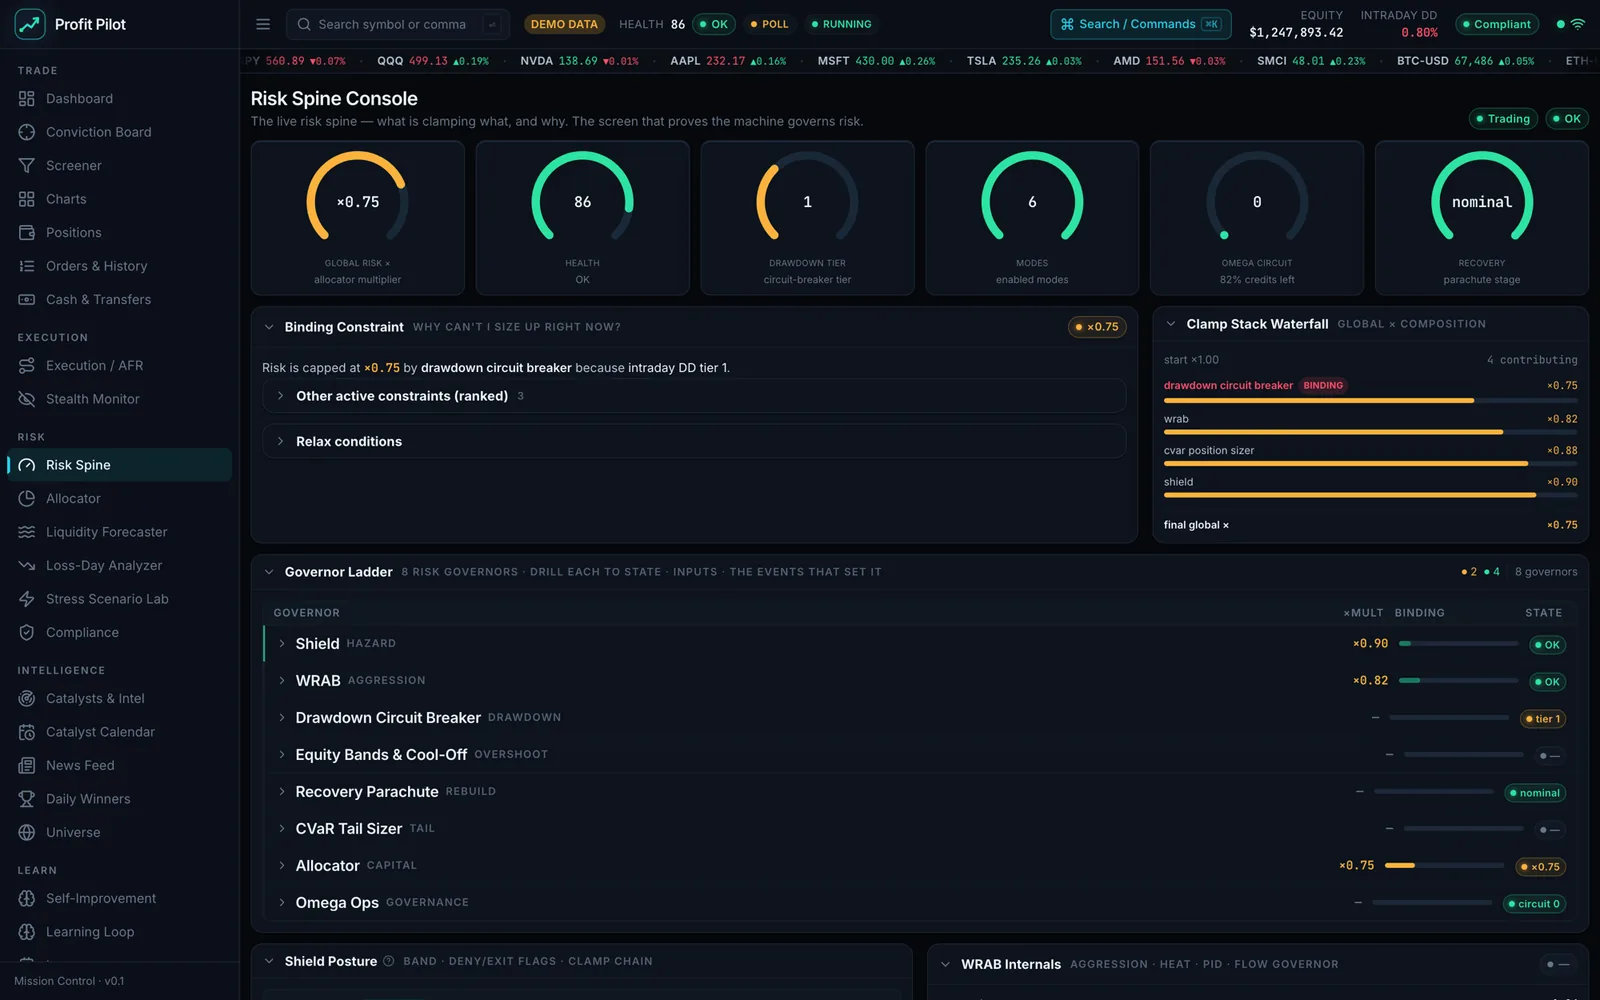
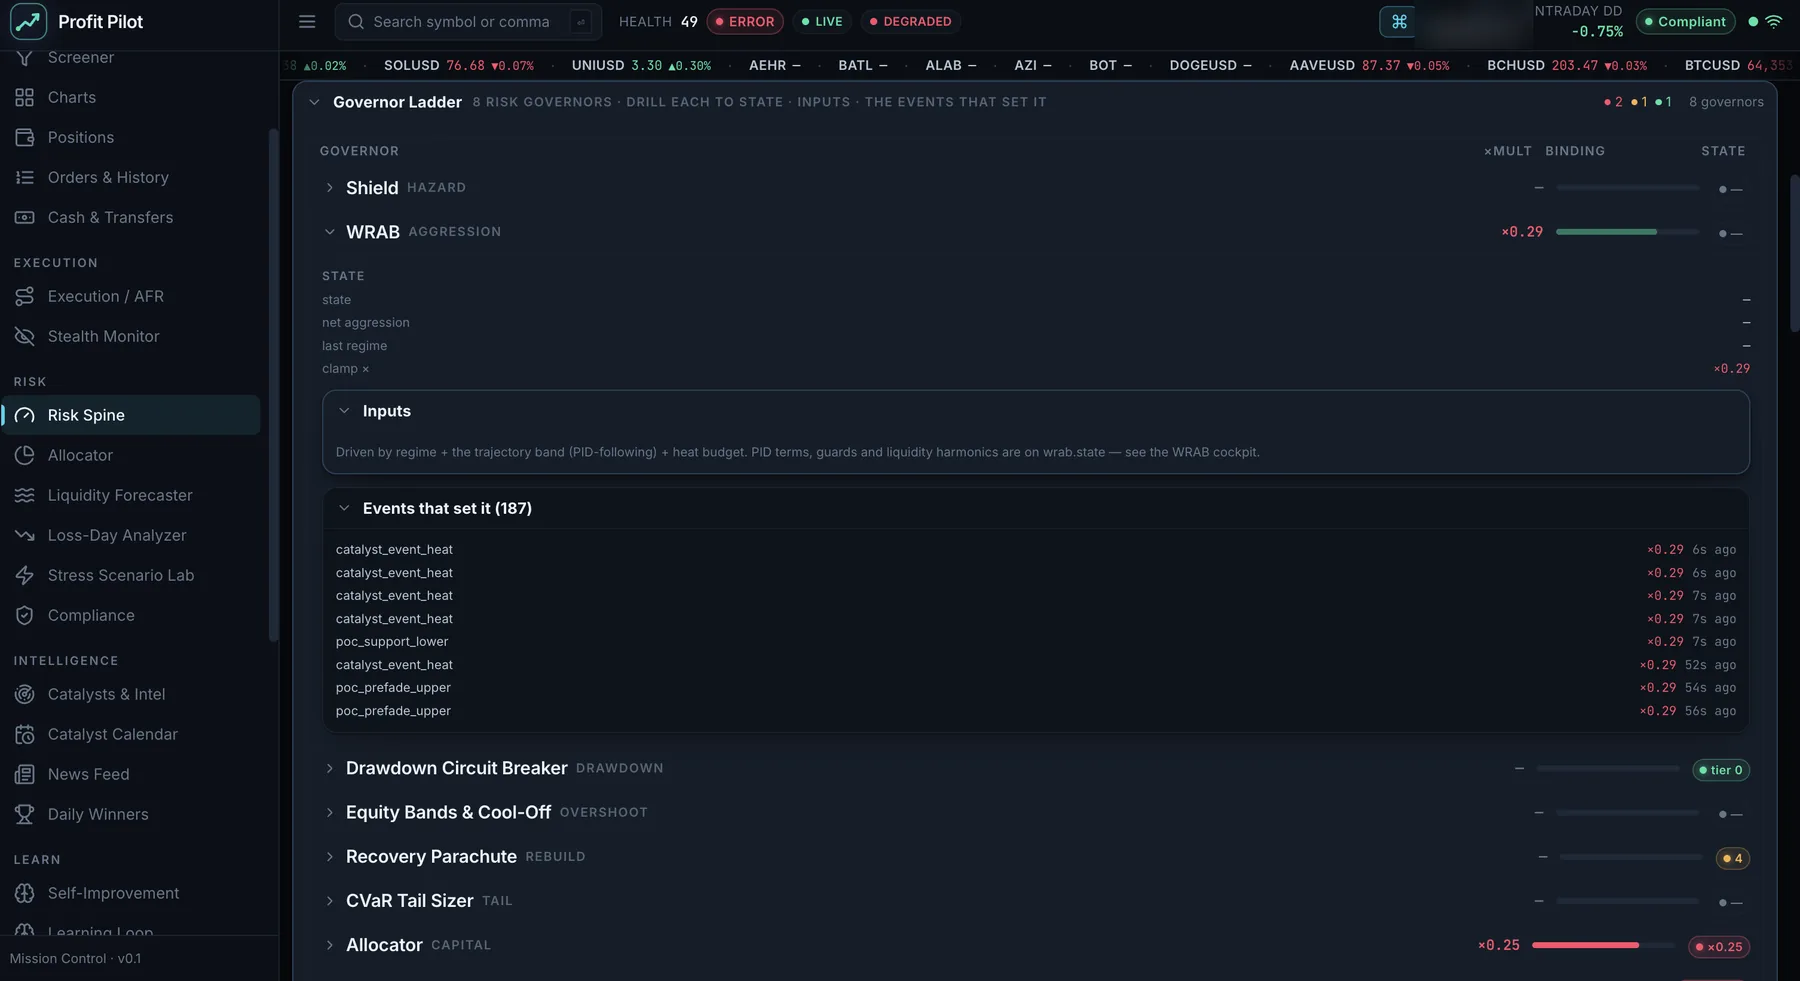
Make the strategy research notes discoverable from the overview
The four notes hold the most credible material on the site - the complete
QV v2 trade log, split-sample and frozen-parameter cross-symbol results, and
the rejected experiments with their measured outcomes. They are published on
the research sub-site and were reachable from strategies.html, but the links
said only 'Research note', which undersold what was behind them.

Each link now names what it carries, and the library section states plainly
that the notes live on the sub-site rather than being copied here, so there
is one published version of every figure.

diff --git a/strategies.html b/strategies.html
@@ -120,7 +120,13 @@ document.addEventListener('click',function(e){var b=e.target.closest&&e.target.c
   <div class="kicker">The library</div>
   <h2>Four return sources</h2>
   <p class="sub">Each system targets something structurally different. Three link to their published
-  open-source code; full research notes live on the sub-site.</p>
+  open-source code.</p>
+  <div class="note"><b>The deep detail is one click away, and it is the best material here.</b> Each
+  system has a full research note &mdash; mechanism, parameters, complete results, the experiments that
+  were tested and rejected with their measured outcomes, and its own limitations section. QV v2's note
+  carries <b>every one of its 22 trades</b>, unedited. Those notes live on the research sub-site rather
+  than being copied here, so there is exactly one published version of every figure &mdash; two copies
+  of a number is how two copies of a number end up disagreeing.</div>
   <div class="grid g2">
 
     <div class="card">
@@ -138,7 +144,7 @@ document.addEventListener('click',function(e){var b=e.target.closest&&e.target.c
       threshold</b>, which is what makes the frozen-parameter cross-symbol tests meaningful at all.</p>
       <div class="btnrow" style="margin-top:16px">
         <a class="btn ghost" href="https://www.tradingview.com/script/97gxVA5b-Compression-Breakout-System/" rel="noopener">Open-source script &#8599;</a>
-        <a class="btn ghost" href="https://mateosandoval10.github.io/quant-strategies/cbs.html" rel="noopener">Research note &#8599;</a>
+        <a class="btn ghost" href="https://mateosandoval10.github.io/quant-strategies/cbs.html" rel="noopener">Research note &mdash; split-sample, cross-symbol, rejected experiments &#8599;</a>
       </div>
     </div>
 
@@ -158,7 +164,7 @@ document.addEventListener('click',function(e){var b=e.target.closest&&e.target.c
       drawdowns &mdash; the note makes that comparison rather than hiding it.</p>
       <div class="btnrow" style="margin-top:16px">
         <a class="btn ghost" href="https://www.tradingview.com/script/2wyXTTMc-Vol-Target-Trend-Engine/" rel="noopener">Open-source script &#8599;</a>
-        <a class="btn ghost" href="https://mateosandoval10.github.io/quant-strategies/vtte.html" rel="noopener">Research note &#8599;</a>
+        <a class="btn ghost" href="https://mateosandoval10.github.io/quant-strategies/vtte.html" rel="noopener">Research note &mdash; full source, rejected variant, limitations &#8599;</a>
       </div>
     </div>
 
@@ -178,7 +184,7 @@ document.addEventListener('click',function(e){var b=e.target.closest&&e.target.c
       plainly.</p>
       <div class="btnrow" style="margin-top:16px">
         <a class="btn ghost" href="https://www.tradingview.com/script/XRZCjbFr-Channel-Reversion-System/" rel="noopener">Open-source script &#8599;</a>
-        <a class="btn ghost" href="https://mateosandoval10.github.io/quant-strategies/crs.html" rel="noopener">Research note &#8599;</a>
+        <a class="btn ghost" href="https://mateosandoval10.github.io/quant-strategies/crs.html" rel="noopener">Research note &mdash; 27-year results, two rejected experiments &#8599;</a>
       </div>
     </div>
 
@@ -197,7 +203,7 @@ document.addEventListener('click',function(e){var b=e.target.closest&&e.target.c
       improvement that does not depend on the future producing more upside than the past. Not yet published
       as open source.</p>
       <div class="btnrow" style="margin-top:16px">
-        <a class="btn ghost" href="https://mateosandoval10.github.io/quant-strategies/qv2.html" rel="noopener">Research note + trade log &#8599;</a>
+        <a class="btn ghost" href="https://mateosandoval10.github.io/quant-strategies/qv2.html" rel="noopener">Research note &mdash; complete 22-trade log + loss autopsy &#8599;</a>
       </div>
     </div>
 
